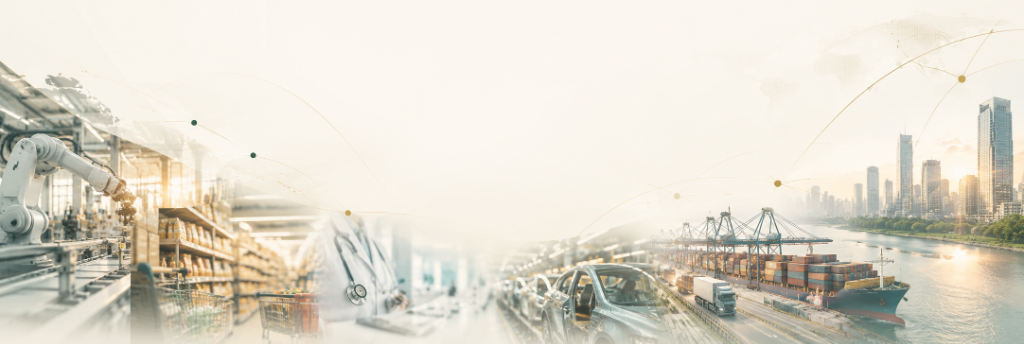
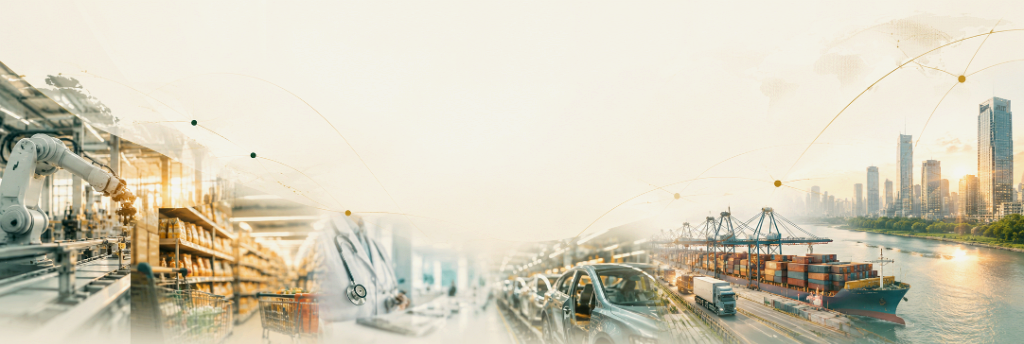
Adding Touches

diff --git a/client/src/pages/public/IndustriesPage.jsx b/client/src/pages/public/IndustriesPage.jsx
@@ -14,11 +14,10 @@ const IndustriesPage = () => {
           <img 
             src="/images/industries-banner.png" 
             alt="Industries We Support - Manufacturing, Retail, Healthcare, Automotive, Logistics, Finance" 
-            className="w-full h-full object-cover object-bottom md:object-center" 
+            className="w-full h-full object-cover object-bottom md:object-center contrast-[1.05] saturate-[1.08]" 
           />
-          {/* Subtle gradient overlays to ensure text contrast while letting the panoramic industrial sectors shine */}
-          <div className="absolute inset-0 bg-gradient-to-r from-[#F8F5EE] via-[#F8F5EE]/85 md:via-[#F8F5EE]/40 to-transparent z-0 pointer-events-none" />
-          <div className="absolute inset-0 bg-gradient-to-t from-[#F8F5EE]/50 via-transparent to-transparent z-0 pointer-events-none" />
+          {/* Subtle gradient overlay on left to guarantee text readability while keeping industrial sectors vibrant and clear */}
+          <div className="absolute inset-0 bg-gradient-to-r from-[#F8F5EE] via-[#F8F5EE]/80 to-[#F8F5EE]/20 md:via-[#F8F5EE]/25 md:to-transparent md:max-w-2xl z-0 pointer-events-none" />
         </div>
 
         <div className="max-w-7xl mx-auto relative z-10 pt-4 sm:pt-6">

diff --git a/client/src/components/auth/AuthLayout.jsx b/client/src/components/auth/AuthLayout.jsx
@@ -44,7 +44,7 @@ const AuthLayout = ({
       {/* Main Split Content */}
       <main className="flex-1 flex items-center justify-center p-3 sm:p-6 lg:p-8">
         <div className="w-full max-w-6xl bg-white rounded-3xl border border-[#E7E0D3] shadow-[0_20px_50px_rgba(23,75,57,0.08)] overflow-hidden grid grid-cols-1 lg:grid-cols-12 min-h-[640px]">
-          
+
           {/* ================= LEFT VISUAL PANEL ================= */}
           <div className="lg:col-span-6 relative bg-[#FDFBF7] flex flex-col justify-between overflow-hidden min-h-[380px] lg:min-h-full border-b lg:border-b-0 lg:border-r border-[#E7E0D3]">
             {/* Visual Image */}
@@ -67,7 +67,7 @@ const AuthLayout = ({
                 className="inline-flex items-center gap-1.5 text-xs font-semibold text-[#66665D] hover:text-[#174B39] transition group"
               >
                 <FiArrowLeft className="text-xs transition-transform group-hover:-translate-x-0.5" />
-                <span>Back to Public Website</span>
+                <span>Back to Home Page</span>
               </Link>
               <div className="text-[11px] text-[#B88A3B] font-bold uppercase tracking-wider">
                 DY&C Enterprise Portal

diff --git a/client/src/pages/public/SAPCapabilitiesPage.jsx b/client/src/pages/public/SAPCapabilitiesPage.jsx
@@ -50,11 +50,10 @@ const SAPCapabilitiesPage = () => {
           <img 
             src="/images/sap-banner.png" 
             alt="SAP Capabilities & Ecosystem Architecture" 
-            className="w-full h-full object-cover object-right md:object-center" 
+            className="w-full h-full object-cover object-right md:object-center contrast-[1.05] saturate-[1.08]" 
           />
           {/* Gentle gradient to guarantee contrast over text on mobile and left edge while preserving visual clarity */}
-          <div className="absolute inset-0 bg-gradient-to-r from-[#F8F5EE] via-[#F8F5EE]/80 md:via-[#F8F5EE]/40 to-transparent z-0 pointer-events-none" />
-          <div className="absolute inset-0 bg-gradient-to-t from-[#F8F5EE]/50 via-transparent to-transparent z-0 pointer-events-none" />
+          <div className="absolute inset-0 bg-gradient-to-r from-[#F8F5EE] via-[#F8F5EE]/80 to-[#F8F5EE]/20 md:via-[#F8F5EE]/25 md:to-transparent md:max-w-2xl z-0 pointer-events-none" />
         </div>
 
         <div className="max-w-7xl mx-auto relative z-10 pt-4 sm:pt-6">

diff --git a/client/src/pages/public/AboutPage.jsx b/client/src/pages/public/AboutPage.jsx
@@ -15,11 +15,10 @@ const AboutPage = () => {
           <img 
             src="/images/about-banner.png" 
             alt="About DY&C Executive Boardroom and Global Network" 
-            className="w-full h-full object-cover object-right md:object-center" 
+            className="w-full h-full object-cover object-right md:object-center contrast-[1.05] saturate-[1.08]" 
           />
           {/* Subtle gradient to guarantee contrast over text while preserving image beauty */}
-          <div className="absolute inset-0 bg-gradient-to-r from-[#F8F5EE] via-[#F8F5EE]/80 md:via-[#F8F5EE]/40 to-transparent z-0 pointer-events-none" />
-          <div className="absolute inset-0 bg-gradient-to-t from-[#F8F5EE]/60 via-transparent to-transparent z-0 pointer-events-none" />
+          <div className="absolute inset-0 bg-gradient-to-r from-[#F8F5EE] via-[#F8F5EE]/80 to-[#F8F5EE]/20 md:via-[#F8F5EE]/25 md:to-transparent md:max-w-2xl z-0 pointer-events-none" />
         </div>
 
         <div className="max-w-7xl mx-auto relative z-10 pt-4 sm:pt-6">

diff --git a/client/src/pages/public/ContactPage.jsx b/client/src/pages/public/ContactPage.jsx
@@ -303,10 +303,10 @@ const ContactPage = () => {
           <img
             src="/images/contact-banner.png"
             alt="Contact Us Banner"
-            className="w-full h-full object-cover object-right mix-blend-multiply opacity-100"
+            className="w-full h-full object-cover object-right md:object-center opacity-100"
           />
-          {/* Mobile-only backdrop protection; on desktop the artwork is 100% fully visible without any overlay */}
-          <div className="md:hidden absolute inset-0 bg-gradient-to-r from-[#F8F5EE] via-[#F8F5EE]/90 to-[#F8F5EE]/60 z-0 pointer-events-none" />
+          {/* Subtle gradient to protect text on mobile and ensure smooth blend */}
+          <div className="absolute inset-0 bg-gradient-to-r from-[#F8F5EE] via-[#F8F5EE]/80 to-[#F8F5EE]/20 md:via-[#F8F5EE]/20 md:to-transparent md:max-w-2xl z-0 pointer-events-none" />
         </div>
 
         <div className="max-w-7xl mx-auto relative z-10 pt-4 sm:pt-6">

diff --git a/client/src/components/home/Hero.jsx b/client/src/components/home/Hero.jsx
@@ -86,7 +86,7 @@ const Hero = () => {
 
             {/* Seamless Visual without white boundary, tall full height */}
             <img
-              src="/images/hero-sap-ecosystem.jpg"
+              src="/images/hero-sap-ecosystem.png"
               alt="Dinesh Yadav & Company SAP, ERP & Enterprise Capability Ecosystem"
               className="w-full max-w-[580px] lg:max-w-[660px] h-auto max-h-[560px] lg:max-h-[640px] object-contain mix-blend-multiply drop-shadow-[0_24px_48px_rgba(23,75,57,0.14)] transform hover:scale-[1.02] transition-transform duration-700 relative z-10"
             />
